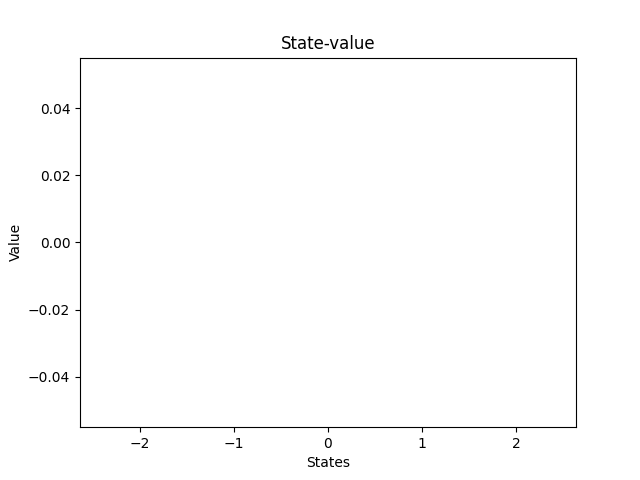
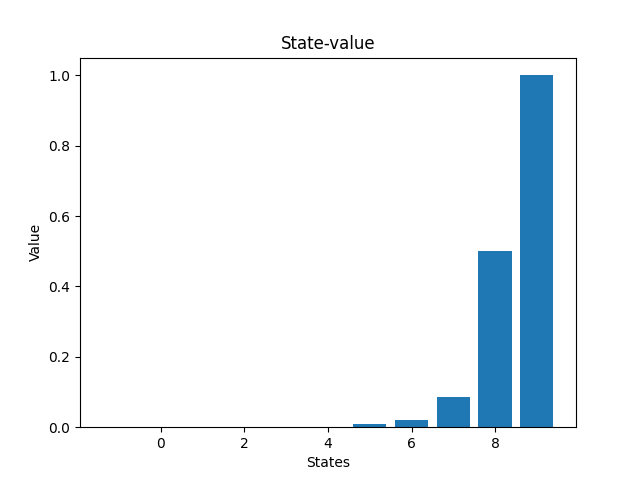
cleaned up

diff --git a/estimators/mc_value_estimator.py b/estimators/mc_value_estimator.py
@@ -3,12 +3,13 @@ import matplotlib.pyplot as plt
 from matplotlib.animation import FuncAnimation
 
 class MonteCarloValueEstimator:
-    def __init__(self, n_states, dir_, gamma=0.9):
+    def __init__(self, n_states, dir_, gamma=0.5, max_state=10):
         self.n_states       = n_states
         self.returns        = {}
         self.state_values   = {}
         self.episode_states = [] # For making animation purposes
         self.gamma          = gamma
+        self.max_state      = max_state
         self.save_dir       = './logs/'+dir_
         os.makedirs(self.save_dir, exist_ok=True)
         os.makedirs(self.save_dir+'state_values/', exist_ok=True)
@@ -29,10 +30,10 @@ class MonteCarloValueEstimator:
     def plot_states(self, dir_):
 
         fig, ax = plt.subplots()
-        ax.set_xlim(-3, 3)
+        ax.set_xlim(-self.max_state, self.max_state)
         ax.set_ylim(-1, 1)
         ax.set_yticks([])
-        ax.set_xticks([-3,-2,-1,0,1,2,3])
+        ax.set_xticks(range(-self.max_state,self.max_state))
 
         agent, = ax.plot([], [], "o", markersize=20)
 

diff --git a/experiments/random_walk_1d.py b/experiments/random_walk_1d.py
@@ -2,12 +2,14 @@ from agents.random_policy import RandomPolicy
 from envs.random_walk import RandomWalk1D
 from estimators.mc_value_estimator import MonteCarloValueEstimator
 
+seed = 0
+max_state = 10
 
-policy = RandomPolicy(action_dim=2)
-env    = RandomWalk1D()
+policy = RandomPolicy(action_dim=2, seed=seed)
+env    = RandomWalk1D(max_state=max_state)
 mc     = MonteCarloValueEstimator(env.state_dim, 'random_walk_1D/')
 
-n_episodes = 100
+n_episodes = 10
 
 for episode_idx in range(n_episodes):
     state = env.reset()
@@ -23,6 +25,6 @@ for episode_idx in range(n_episodes):
     
     mc.update(episode)
 
-    if episode_idx % 10 == 0:
+    if episode_idx % 1 == 0:
         mc.plot_states(episode_idx)
         mc.plot_value(episode_idx)

diff --git a/envs/random_walk.py b/envs/random_walk.py
@@ -1,12 +1,12 @@
 from envs.environment import Environment
 
 class RandomWalk1D(Environment):
-    def __init__(self):
-        super().__init__(state_dim=1, action_dim=2)
+    def __init__(self, state_dim=1, action_dim=2, max_state=10):
+        super().__init__(state_dim=state_dim, action_dim=action_dim)
         self.state_dim = self.state_dim
         self.init_state      = 0.0  
-        self.far_right_state = 3.0  
-        self.far_left_state  = -3.0
+        self.far_right_state = max_state 
+        self.far_left_state  = -max_state
 
     def reset(self):
         self.current_state = self.init_state

diff --git a/agents/random_policy.py b/agents/random_policy.py
@@ -2,9 +2,10 @@ import numpy as np
 from agents.agent import Agent
 
 class RandomPolicy(Agent):
-    def __init__(self, action_dim):
+    def __init__(self, action_dim, seed):
         super().__init__(action_dim)
         self.actions = [-1, 1]  # Example actions for a random walk
+        np.random.seed(seed)
 
     def act(self, state, key=None):
         action = np.random.randint(0, self.action_dim)
